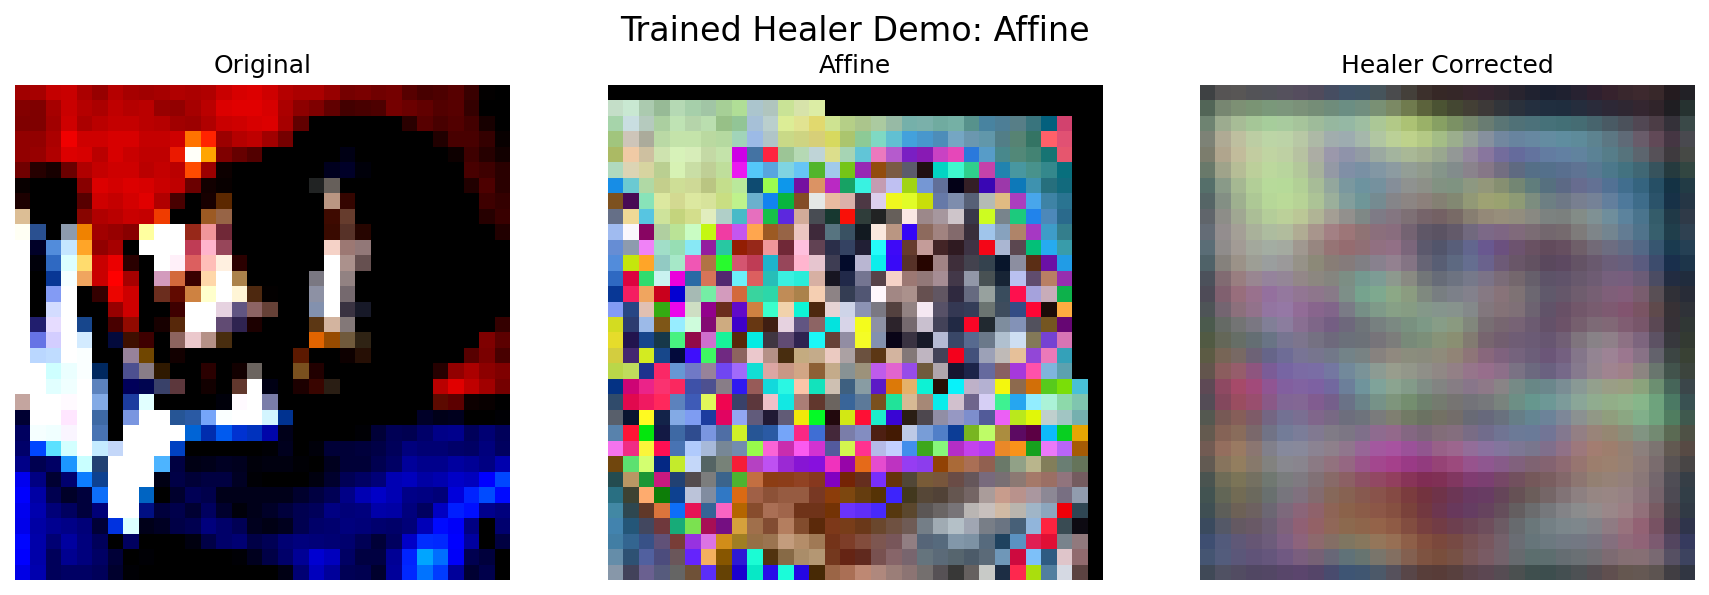
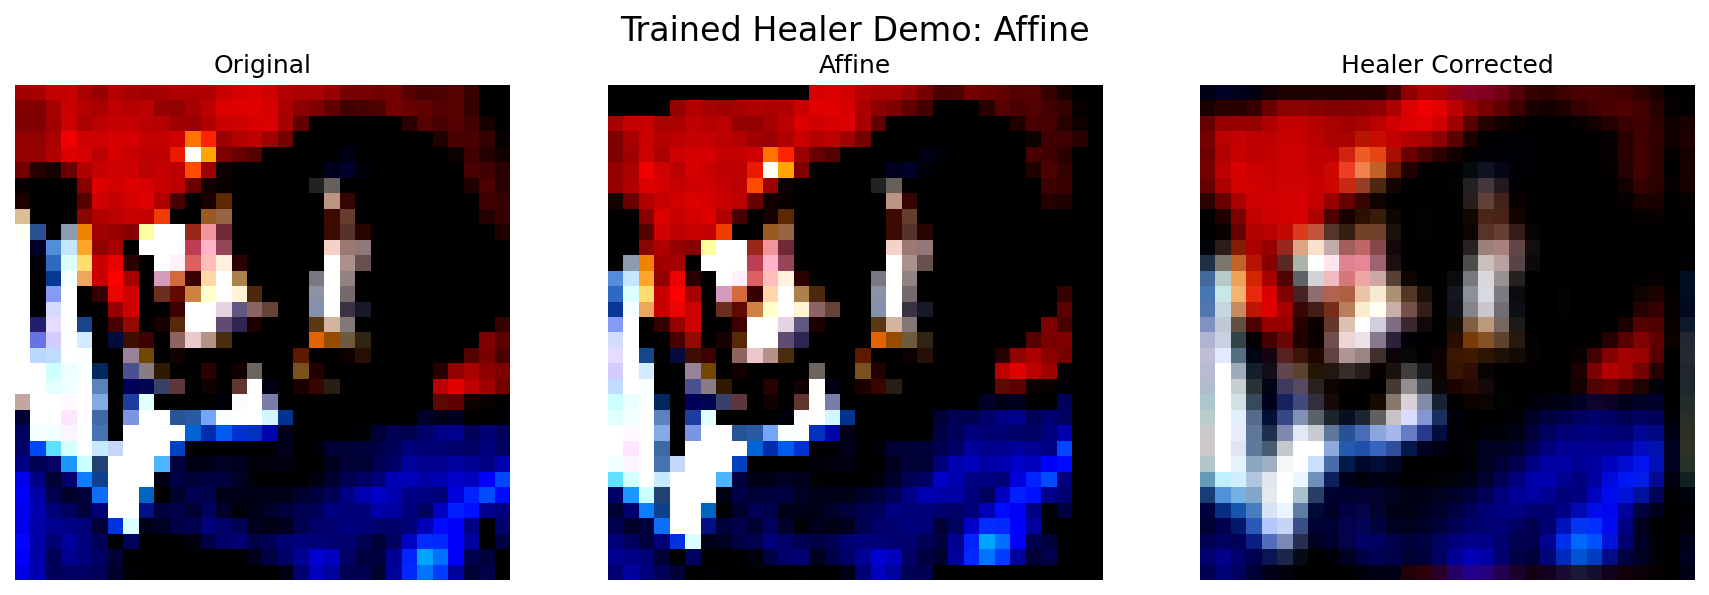
changing continuous transforms

diff --git a/rendu/src/demo_corrector_visualizations.py b/rendu/src/demo_corrector_visualizations.py
@@ -43,20 +43,19 @@ def load_sample_image(config_path: str = 'config/cifar10_config.yaml') -> Tuple[
 
 
 def apply_corruption(image: torch.Tensor, corruption_type: str = 'mixed') -> torch.Tensor:
-    """Apply corruption to image"""
+    """Apply corruption to image using ContinuousTransforms and additional effects"""
+    continuous_transform = ContinuousTransforms(severity=1.0)
+    
     if corruption_type == 'gaussian_noise':
-        noise = torch.randn_like(image) * 0.3
-        corrupted = torch.clamp(image + noise, 0, 1)
+        # Use ContinuousTransforms for gaussian noise with severity 0.6 (0.6 * 0.5 = 0.3 std)
+        corrupted = continuous_transform.apply_transforms(image, 'gaussian_noise', severity=0.6)
         
     elif corruption_type == 'rotation':
-        angle = 45.0
-        img_cpu = image.cpu()
-        pil_img = transforms.ToPILImage()(img_cpu)
-        rotated = transforms.functional.rotate(pil_img, angle)
-        corrupted = transforms.ToTensor()(rotated).to(image.device)
+        # Use ContinuousTransforms for rotation with severity 0.125 (0.125 * 360 = 45 degrees max)
+        corrupted = continuous_transform.apply_transforms(image, 'rotation', severity=0.125)
         
     elif corruption_type == 'blur':
-        # Apply Gaussian blur
+        # Apply Gaussian blur (not in ContinuousTransforms)
         img_cpu = image.cpu()
         pil_img = transforms.ToPILImage()(img_cpu)
         blurred = transforms.functional.gaussian_blur(pil_img, kernel_size=7, sigma=2.0)
@@ -64,9 +63,8 @@ def apply_corruption(image: torch.Tensor, corruption_type: str = 'mixed') -> tor
         
     elif corruption_type == 'mixed':
         # Apply multiple corruptions
-        # First add noise
-        noise = torch.randn_like(image) * 0.15
-        corrupted = image + noise
+        # First add noise using ContinuousTransforms
+        corrupted = continuous_transform.apply_transforms(image, 'gaussian_noise', severity=0.3)
         
         # Then blur
         img_cpu = corrupted.cpu()
@@ -74,11 +72,8 @@ def apply_corruption(image: torch.Tensor, corruption_type: str = 'mixed') -> tor
         blurred = transforms.functional.gaussian_blur(pil_img, kernel_size=5, sigma=1.0)
         corrupted = transforms.ToTensor()(blurred).to(image.device)
         
-        # Finally add slight rotation
-        angle = 10.0
-        pil_img = transforms.ToPILImage()(torch.clamp(corrupted.cpu(), 0, 1))
-        rotated = transforms.functional.rotate(pil_img, angle)
-        corrupted = transforms.ToTensor()(rotated).to(image.device)
+        # Finally add slight rotation using ContinuousTransforms
+        corrupted = continuous_transform.apply_transforms(corrupted, 'rotation', severity=0.028)
         
     else:
         corrupted = image.clone()

diff --git a/rendu/src/demo_static_healer.py b/rendu/src/demo_static_healer.py
@@ -41,9 +41,12 @@ def demo_static_corrections():
     
     print("\n1. Gaussian Noise Correction:")
     
-    noise_std = 0.2
-    noisy_image = original_image + torch.randn_like(original_image) * noise_std
-    noisy_image = torch.clamp(noisy_image, 0, 1)
+    continuous_transform = ContinuousTransforms(severity=1.0)
+    # Use severity 0.4 to get noise_std of 0.2 (0.4 * 0.5 = 0.2)
+    noisy_image, noise_params = continuous_transform.apply_transforms(
+        original_image, 'gaussian_noise', severity=0.4, return_params=True
+    )
+    noise_std = noise_params['noise_std']
     
     show_image(axes[0, 1], noisy_image, f"Noisy (σ={noise_std})")
     
@@ -58,15 +61,14 @@ def demo_static_corrections():
     
     print("2. Rotation Correction:")
 
-    angle = 30.0
-    transform_engine = ContinuousTransforms(severity=0.5)
-    rotated_image = transforms.functional.rotate(
-        transforms.ToPILImage()(original_image), angle
+    # Use ContinuousTransforms for rotation
+    rotated_tensor, rotation_params = continuous_transform.apply_transforms(
+        original_image, 'rotation', severity=0.0833, return_params=True  # 0.0833 * 360 ≈ 30 degrees
     )
-    rotated_tensor = transforms.ToTensor()(rotated_image)
+    angle = rotation_params['rotation_angle']
     
     show_image(axes[1, 0], original_image, "Original")
-    show_image(axes[1, 1], rotated_tensor, f"Rotated ({angle}°)")
+    show_image(axes[1, 1], rotated_tensor, f"Rotated ({angle:.1f}°)")
     
     corrected = HealerTransforms.apply_inverse_rotation(rotated_tensor, angle)
     show_image(axes[1, 2], corrected, "Corrected (Static)")
@@ -79,19 +81,15 @@ def demo_static_corrections():
     
     print("3. Affine Transform Correction:")
 
-    tx, ty = 0.1, -0.1
-    sx, sy = 15.0, -10.0
-    
-    pil_img = transforms.ToPILImage()(original_image)
-    width, height = pil_img.size
-    affine_img = transforms.functional.affine(
-        pil_img,
-        angle=0,
-        translate=(tx * width, ty * height),
-        scale=1.0,
-        shear=[sx, sy]
+    # Use ContinuousTransforms for affine transformation
+    # This will generate random affine parameters within the severity range
+    affine_tensor, affine_params = continuous_transform.apply_transforms(
+        original_image, 'affine', severity=1.0, return_params=True
     )
-    affine_tensor = transforms.ToTensor()(affine_img)
+    tx = affine_params['translate_x']
+    ty = affine_params['translate_y']
+    sx = affine_params['shear_x']
+    sy = affine_params['shear_y']
     
     show_image(axes[2, 0], original_image, "Original")
     show_image(axes[2, 1], affine_tensor, f"Affine Transform")

diff --git a/rendu/src/test_static_healer.py b/rendu/src/test_static_healer.py
@@ -15,6 +15,7 @@ sys.path.append(str(Path(__file__).parent.parent))
 from src.models.healer_transforms import HealerTransforms
 from src.config.config_loader import ConfigLoader
 from src.data.data_loader import DataLoaderFactory
+from src.data.continuous_transforms import ContinuousTransforms
 from torchvision import transforms
 
 
@@ -38,8 +39,9 @@ def test_static_healer():
     
     print("\n2. Testing Gaussian Denoising:")
     noise_std = 0.15
-    noisy = test_image + torch.randn_like(test_image) * noise_std
-    noisy = torch.clamp(noisy, 0, 1)
+    continuous_transform = ContinuousTransforms(severity=1.0)
+    # Use severity 0.3 to get noise_std of 0.15 (0.3 * 0.5 = 0.15)
+    noisy, _ = continuous_transform.apply_transforms(test_image, 'gaussian_noise', severity=0.3, return_params=True)
     
     denoised = HealerTransforms.apply_gaussian_denoising(noisy, noise_std)
     noise_reduction = torch.mean(torch.abs(noisy - test_image)) - torch.mean(torch.abs(denoised - test_image))
@@ -47,13 +49,12 @@ def test_static_healer():
     
     print("\n3. Testing Rotation Correction:")
     angle = 45.0
+    # Use severity 0.125 to get 45 degree rotation (0.125 * 360 = 45)
+    rotated, rotation_params = continuous_transform.apply_transforms(test_image, 'rotation', severity=0.125, return_params=True)
+    actual_angle = rotation_params['rotation_angle']
     
-    pil_img = transforms.ToPILImage()(test_image)
-    rotated_pil = transforms.functional.rotate(pil_img, angle)
-    rotated = transforms.ToTensor()(rotated_pil)
-    
-    corrected = HealerTransforms.apply_inverse_rotation(rotated, angle)
-    print(f"   Applied rotation: {angle}°")
+    corrected = HealerTransforms.apply_inverse_rotation(rotated, actual_angle)
+    print(f"   Applied rotation: {actual_angle:.1f}°")
     print(f"   Corrected shape: {corrected.shape}")
     
     print("\n4. Testing Affine Correction:")
@@ -115,7 +116,7 @@ def test_static_healer():
     axes[0, 2].axis('off')
     
     axes[1, 0].imshow(rotated.permute(1, 2, 0).numpy())
-    axes[1, 0].set_title(f"Rotated ({angle}°)")
+    axes[1, 0].set_title(f"Rotated ({actual_angle:.1f}°)")
     axes[1, 0].axis('off')
     
     axes[1, 1].imshow(corrected.permute(1, 2, 0).numpy())
